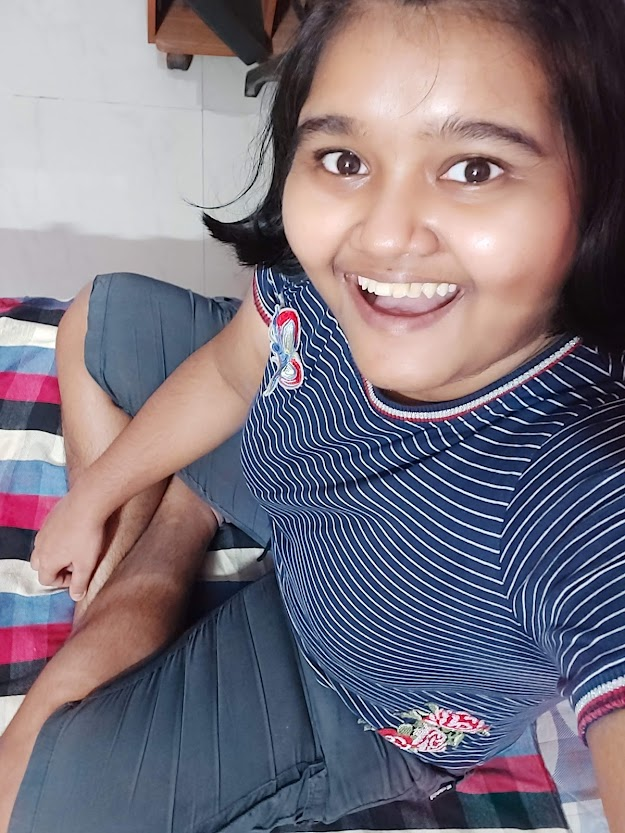
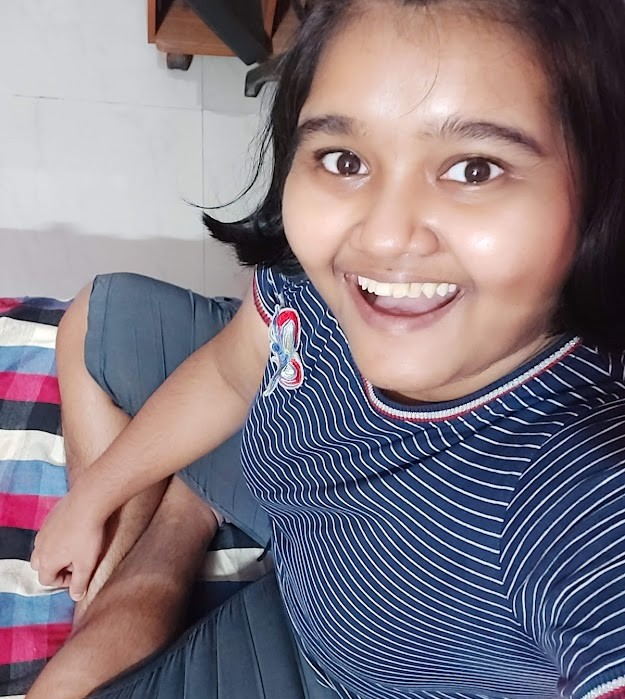
first website done :)

diff --git a/_includes/landing.html b/_includes/landing.html
@@ -5,7 +5,7 @@
     <div id="container" class="my-2">
       <div id="dummy"></div>
       <div id="element">
-        <img src="imgs/me4.jpeg" alt="{{ site.title }}" class="circle-image wow animated zoomIn" data-wow-delay=".1s">
+        <img src="imgs/me3.jpeg" alt="{{ site.title }}" class="circle-image wow animated" data-wow-delay=".1s">
       </div>
     </div>
 

diff --git a/_site/index.html b/_site/index.html
@@ -78,7 +78,7 @@
     <div id="container" class="my-2">
       <div id="dummy"></div>
       <div id="element">
-        <img src="imgs/me4.jpeg" alt="Tejal Barnwal" class="circle-image wow animated zoomIn" data-wow-delay=".1s">
+        <img src="imgs/me3.jpeg" alt="Tejal Barnwal" class="circle-image wow animated" data-wow-delay=".1s">
       </div>
     </div>
 
